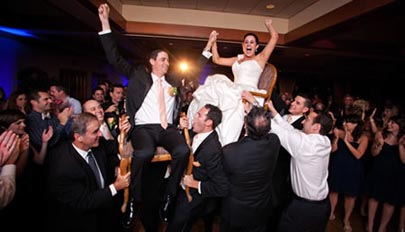
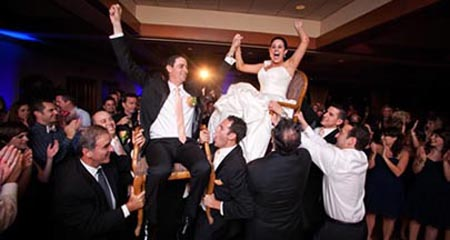
update size of wedding slideshow, too

diff --git a/includes/slideshow_wedding.html b/includes/slideshow_wedding.html
@@ -60,27 +60,27 @@
 			<div id="slides">
 				<div class="slides_container">
 					<div class="slide">
-						<img src="/img/ss_img/wedding-slide1.jpg" width="440" height="240" alt="Slide 1">
+						<img src="/img/ss_img/wedding-slide1.jpg" width="450" height="240" alt="Slide 1">
 						<div class="caption" style="bottom:0">
 							<p>If you want your wedding to be the party of the year, look no further than Randy at Real genius Entertainment.  He made our party the WEDDING OF THE CENTURY!!! Non-stop music, fun, dancing, and an all around AWESOME time.<br>
 								&mdash;Andrew and Jennifer K.</p>
 						</div>
 					</div>
 					<div class="slide">
-						<img src="/img/ss_img/wedding-slide4.jpg" width="440" height="240" alt="Slide 2">
+						<img src="/img/ss_img/wedding-slide4.jpg" width="450" height="240" alt="Slide 2">
 						<div class="caption">
 							<p>I just wanted to thank you for your services on our wedding and providing the best MC & DJ EVER!!!  Jordan and Matt were amazing the entire night!  Every single guest was up there dancing and there was never a dull moment.  I can’t tell you the number of guests still calling and telling us how much fun they had.<br>
 								&mdash;John and Melanie W.</p>
 						</div>
 					</div>
 					<div class="slide">
-						<img src="/img/ss_img/wedding-slide1.jpg" width="440" height="240" alt="Slide 1">
+						<img src="/img/ss_img/wedding-slide1.jpg" width="450" height="240" alt="Slide 1">
 						<div class="caption" style="bottom:0">
 							<p>Real Genius did a stellar job for our wedding of 200 people. Seriously, even our wedding planner was "wowed" at how many people got up and danced throughout the night. They kept the pace going and there were so many great memories --The party was set up to be fun from the start (and stayed that way). </p>
 						</div>
 					</div>
 					<div class="slide">
-						<img src="/img/ss_img/wedding-slide1.jpg" width="440" height="240" alt="Slide 1">
+						<img src="/img/ss_img/wedding-slide1.jpg" width="450" height="240" alt="Slide 1">
 						<div class="caption" style="bottom:0">
 							<p>I will admit it -- one of the biggest arguments I had with my now-husband was over whether we wanted to have an "entertainer" for a DJ. I'm now grateful that I caved -- Real Genius Entertainment was terrific. Randy was fantastic...</p>
 						</div>
